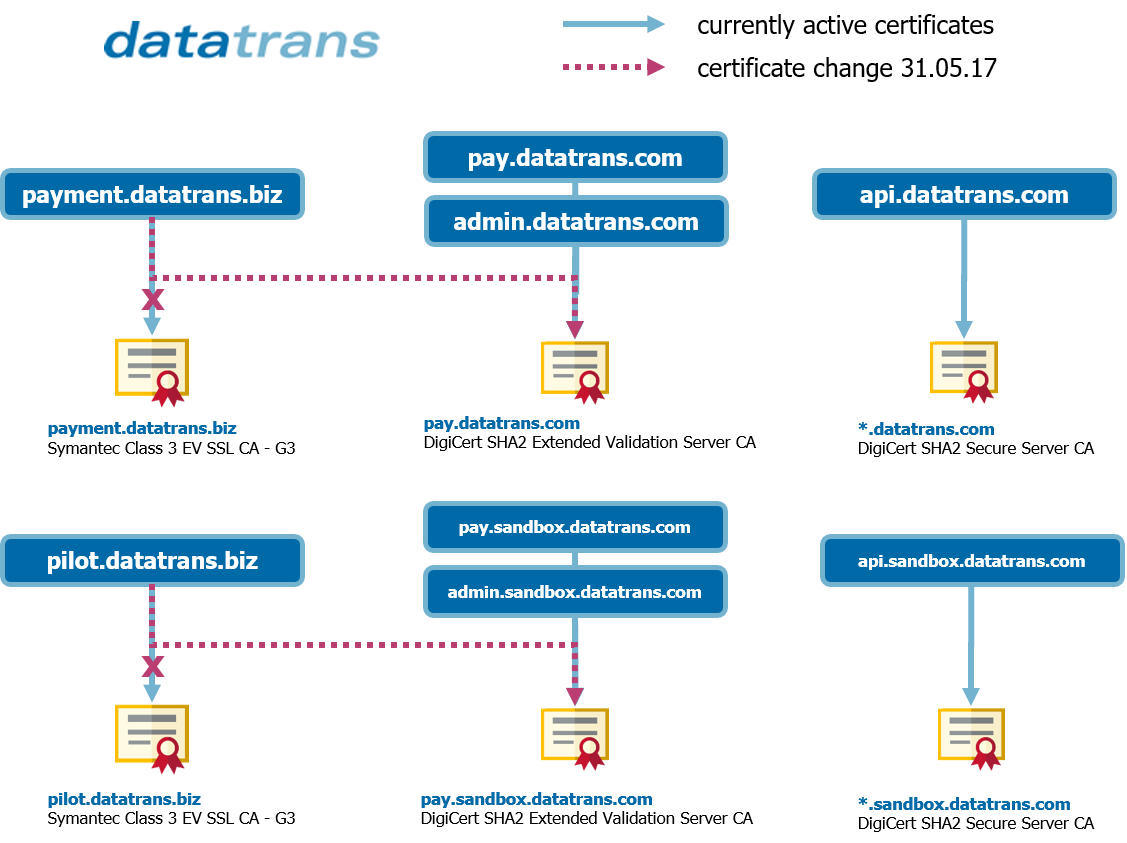
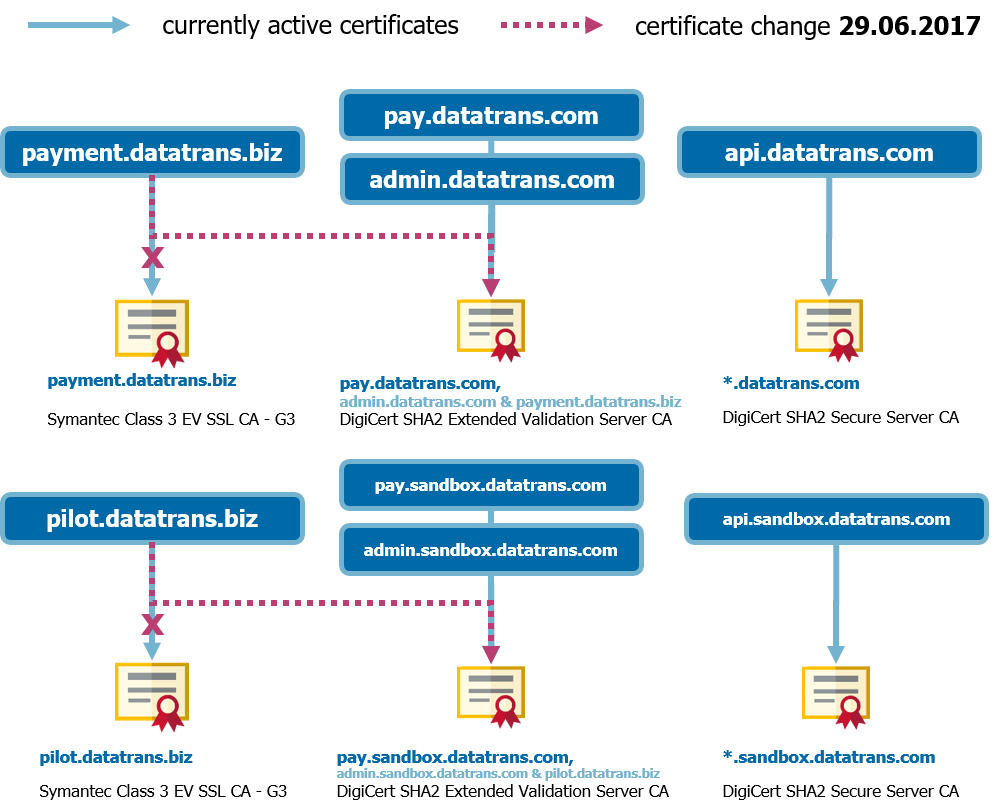
Updates assets/OverviewCertificatesDatatransSmall.png
Auto commit by GitBook Editor

Changed region(s): [[0.0, 0.0, 0.992, 0.9852], [0.682, 0.585, 1.0, 0.9852], [0.031, 0.0, 0.465, 0.0924]]

diff --git a/overview.md b/overview.md
@@ -1,3 +1,3 @@
-Due to possible restriction for Symantec-issued certificates in Google Chrome, the renewal of our certificates for payment.datatrans.biz and pilot.datatrans.biz has been brought forward to 31st Mai 2017.
+Due to possible restriction for Symantec-issued certificates in Google Chrome, the renewal of our certificates for payment.datatrans.biz and pilot.datatrans.biz has been brought forward to June 29th 2017.
 
 [![](/assets/OverviewCertificatesDatatransSmall.png)](/assets/OverviewCertificatesDatatrans.png "Certificates Datatrans")
